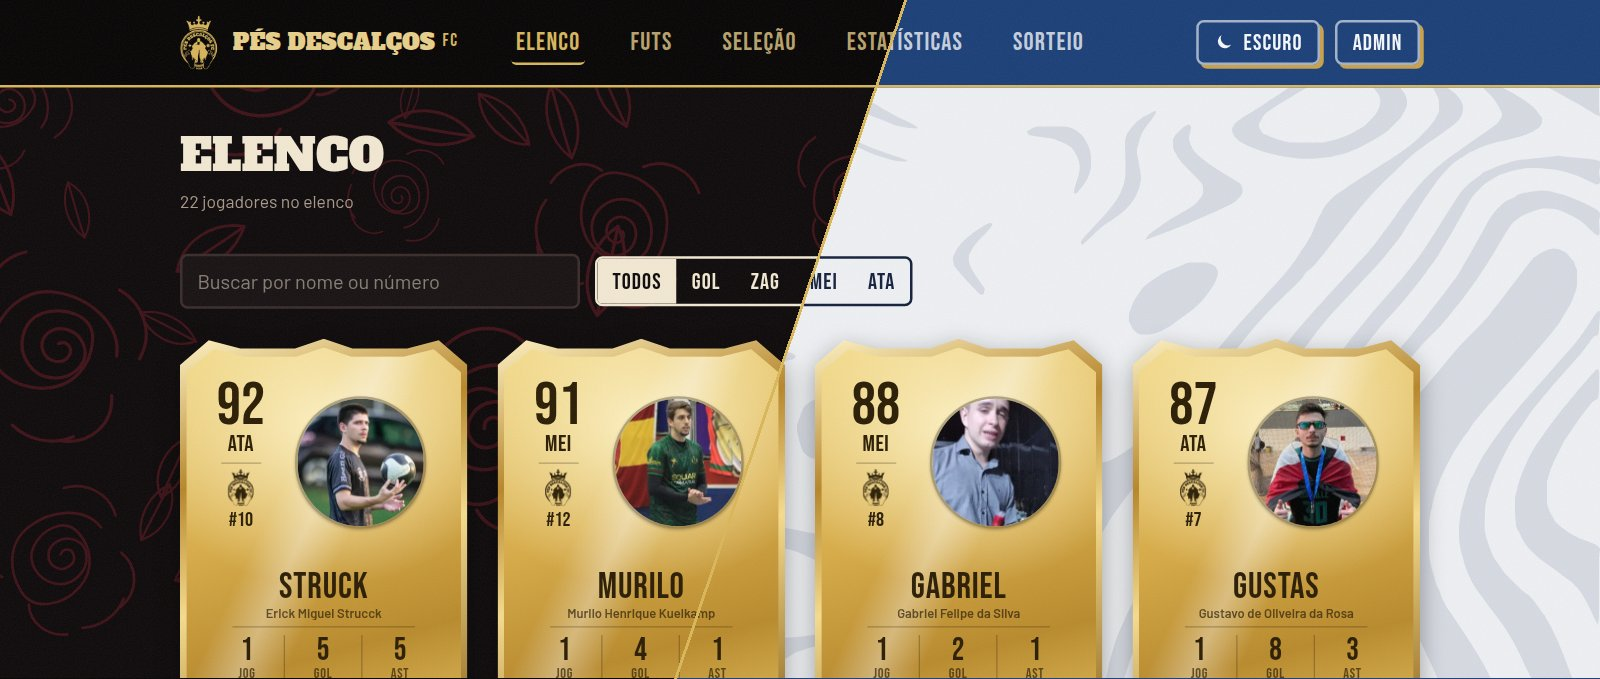
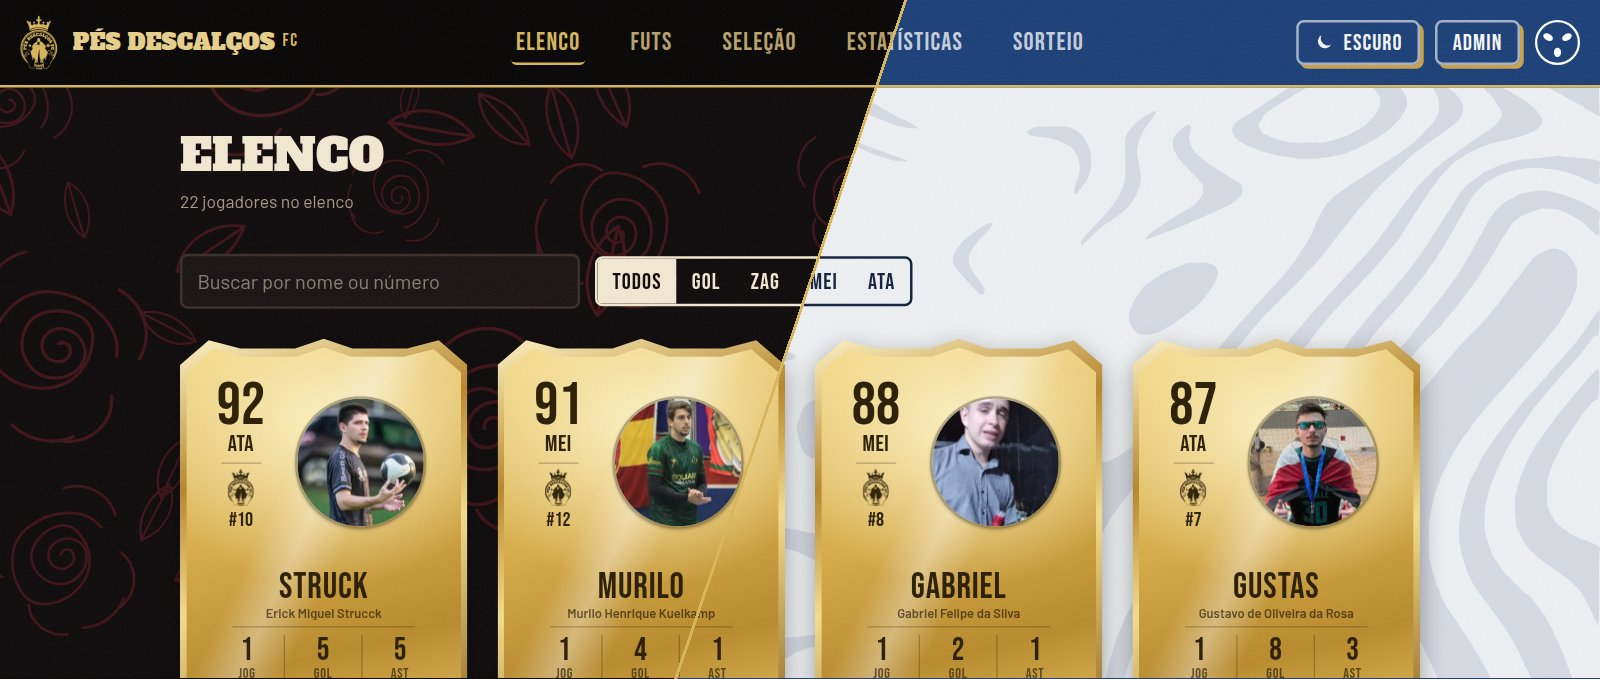
feat: cabeçalho e rodapé na largura da seleção, com o símbolo da barra

Changed region(s): [[0.0, 0.0309, 0.2812, 0.0928], [0.75, 0.0309, 0.875, 0.1237], [0.9062, 0.0309, 1.0, 0.1237]]

diff --git a/src/app/layout.tsx b/src/app/layout.tsx
@@ -3,6 +3,7 @@ import { Alfa_Slab_One, Barlow, Bebas_Neue, Caveat_Brush } from "next/font/googl
 import { cookies } from "next/headers";
 import Link from "next/link";
 import { BotaoAdmin } from "@/components/botao-admin";
+import { Bardo } from "@/components/bardo";
 import { BotaoTema } from "@/components/botao-tema";
 import { Menu } from "@/components/menu";
 import { isAdmin } from "@/data/auth";
@@ -39,7 +40,7 @@ export default async function RootLayout({ children }: LayoutProps<"/">) {
         <header className="border-b-2 border-dourado bg-faixa text-sobre-faixa">
           {/* Até 1023px: marca + ações em cima, menu embaixo. A partir de 1024px: marca | menu | ações
               (antes disso, em tablet, a marca invadia o menu) */}
-          <nav className="mx-auto grid w-full max-w-5xl grid-cols-[minmax(0,1fr)_auto] items-center gap-x-2 gap-y-3 px-4 py-3 sm:gap-x-4 lg:grid-cols-[1fr_auto_1fr]">
+          <nav className="mx-auto grid w-full max-w-7xl grid-cols-[minmax(0,1fr)_auto] items-center gap-x-2 gap-y-3 px-4 py-3 sm:gap-x-4 lg:grid-cols-[1fr_auto_1fr]">
             {/* min-w-0 + truncate: em tela muito estreita o nome corta em vez de
                 empurrar a faixa e dar rolagem lateral na página inteira. O truncate corta o que
                 passa da linha, então ela precisa de folga pro acento do É */}
@@ -86,6 +87,8 @@ export default async function RootLayout({ children }: LayoutProps<"/">) {
               ) : (
                 <BotaoAdmin />
               )}
+              {/* No celular não cabe sem cortar o nome do time: lá ele fica só no rodapé */}
+              <Bardo className="hidden size-9 shrink-0 sm:block" />
             </div>
           </nav>
         </header>
@@ -93,14 +96,17 @@ export default async function RootLayout({ children }: LayoutProps<"/">) {
         <div className="flex-1">{children}</div>
 
         <footer className="mt-12 border-t-2 border-dourado bg-faixa text-sobre-faixa">
-          <div className="mx-auto flex w-full max-w-5xl flex-col items-center gap-2 px-4 py-6 text-center text-sm sm:flex-row sm:justify-between sm:text-left">
-            <span className="flex items-center gap-2 font-slab uppercase">
+          {/* Até 767px empilhado e centralizado; a partir daí marca | direitos | símbolo, com os
+              direitos no meio de verdade (as duas pontas dividem o que sobra) */}
+          <div className="mx-auto flex w-full max-w-7xl flex-col items-center gap-3 px-4 py-6 text-center text-sm md:grid md:grid-cols-[1fr_auto_1fr] md:gap-4">
+            <span className="flex items-center gap-2 font-slab uppercase md:justify-self-start">
               <span className="escudo h-8 text-dourado" aria-hidden />
               Pés Descalços FC
             </span>
             <p className="opacity-70">
               © {new Date().getFullYear()} Pés Descalços FC. Todos os direitos reservados.
             </p>
+            <Bardo className="size-9 md:justify-self-end" />
           </div>
         </footer>
       </body>

diff --git a/src/app/globals.css b/src/app/globals.css
@@ -39,6 +39,10 @@
   --sobre-faixa: #f5f7fa;
   --realce: #ffffff;
   --sobre-realce: #1b3f78;
+  /* Símbolo da barra da camisa (componente Bardo) */
+  --bardo: #1b3f78;
+  --bardo-furo: #ffffff;
+  --bardo-aro: #ffffff;
   --dourado: #d8b65c;
   /* Texto por cima do dourado: igual nos dois temas, porque --dourado não muda */
   --sobre-dourado: #140f0a;
@@ -65,6 +69,9 @@
     --sobre-faixa: #e8cf8a;
     --realce: #d8b65c;
     --sobre-realce: #140f0a;
+    --bardo: #d8b65c;
+    --bardo-furo: #070505;
+    --bardo-aro: transparent;
     --dourado: #d8b65c;
     --perigo: #f0786b;
     --textura: url("/texturas/rosas.svg");
@@ -87,6 +94,9 @@
   --sobre-faixa: #e8cf8a;
   --realce: #d8b65c;
   --sobre-realce: #140f0a;
+  --bardo: #d8b65c;
+  --bardo-furo: #070505;
+  --bardo-aro: transparent;
   --dourado: #d8b65c;
   --perigo: #f0786b;
   --textura: url("/texturas/rosas.svg");

diff --git a/src/components/bardo.tsx b/src/components/bardo.tsx
@@ -1,0 +1,14 @@
+// Símbolo da barra da camisa: disco com dois olhos inclinados e a boca.
+// Azul no claro (com aro e furos brancos, pra aparecer na faixa azul) e dourado no escuro
+export function Bardo({ className }: { className?: string }) {
+  return (
+    <svg viewBox="-100 -100 200 200" className={className} aria-hidden>
+      <circle r="95" fill="var(--bardo)" stroke="var(--bardo-aro)" strokeWidth="10" />
+      <g fill="var(--bardo-furo)">
+        <ellipse cx="-42" cy="-24" rx="23" ry="15" transform="rotate(30 -42 -24)" />
+        <ellipse cx="42" cy="-24" rx="23" ry="15" transform="rotate(-30 42 -24)" />
+        <ellipse cx="0" cy="44" rx="16" ry="21" />
+      </g>
+    </svg>
+  );
+}

diff --git a/ROADMAP.md b/ROADMAP.md
@@ -85,6 +85,7 @@ Resumo do que está no ar, agrupado por tela. O detalhe de cada mudança está n
 
 - [x] **Fundo igual em todas as telas** — a estampa era medida pela janela e dava um zoom quando a barra de rolagem aparecia ou a barra de endereço do celular sumia; agora vai por `vw`/`lvh`, que não mudam nessas horas (#34)
 - [x] **Menu parado no lugar** — o menu andava uns 7px pro lado nas páginas curtas (como a lista de futs), que não tinham barra de rolagem e por isso ficavam mais largas. Agora a barra aparece sempre, vazia quando não tem o que rolar, e o menu fica na mesma posição em todas as telas. O bloco Admin/Sair não influenciava. No celular a barra não ocupa espaço, então nada muda lá (#40)
+- [x] **Cabeçalho e rodapé mais largos, com o símbolo da barra da camisa** — os dois passaram a ter a largura da tela da seleção (a maior do site) em vez da do elenco. O símbolo (disco com dois olhos e a boca, `src/components/bardo.tsx`) fica à direita, depois dos botões, a partir de 640px (no celular cortaria o nome do time); no rodapé fica à direita, com os direitos reservados no centro (no celular, empilhado embaixo). Azul com aro branco no claro, dourado no escuro. Testado de 300 a 1920px sem rolagem lateral nem nada se sobrepondo (#46)
 - [x] **Tema claro com a cara da camisa branca** — a estampa do fundo foi redesenhada a partir das fotos da camisa: faixas de "mármore líquido" que correm juntas, fazem voltas e afinam em ponta, no lugar das linhas borradas de antes. Sai de `scripts/textura-marmore.py` (ruído distorcido + contornos vetorizados, 22 KB com gzip). A paleta passou do creme pro branco frio da camisa, o azul ficou o do número e das listras, e o menu e os botões do cabeçalho ficaram brancos, como a camisa. O dourado continua no escudo, no friso do cabeçalho e do rodapé, na sombra dos botões e onde é troféu (craque, 1º lugar, cartinhas). O tema escuro não mudou (#46)
 - [x] **Identidade visual** — tema claro (camisa branca) e escuro (camisa preta), seguindo o sistema ou escolhido no cabeçalho; escudo, fontes retrô e um sistema único de botões com foco de teclado (#11, #13, #14)
 - [x] **Celular** — testado de 320px a 430px sem rolagem lateral: cabeçalho que encolhe, alvos de toque maiores, campos que não dão zoom no iPhone, carta pequena legível no campo. Cabeçalho testado de 300 a 1600px sem nada se sobrepondo (#20, #27, #29)
